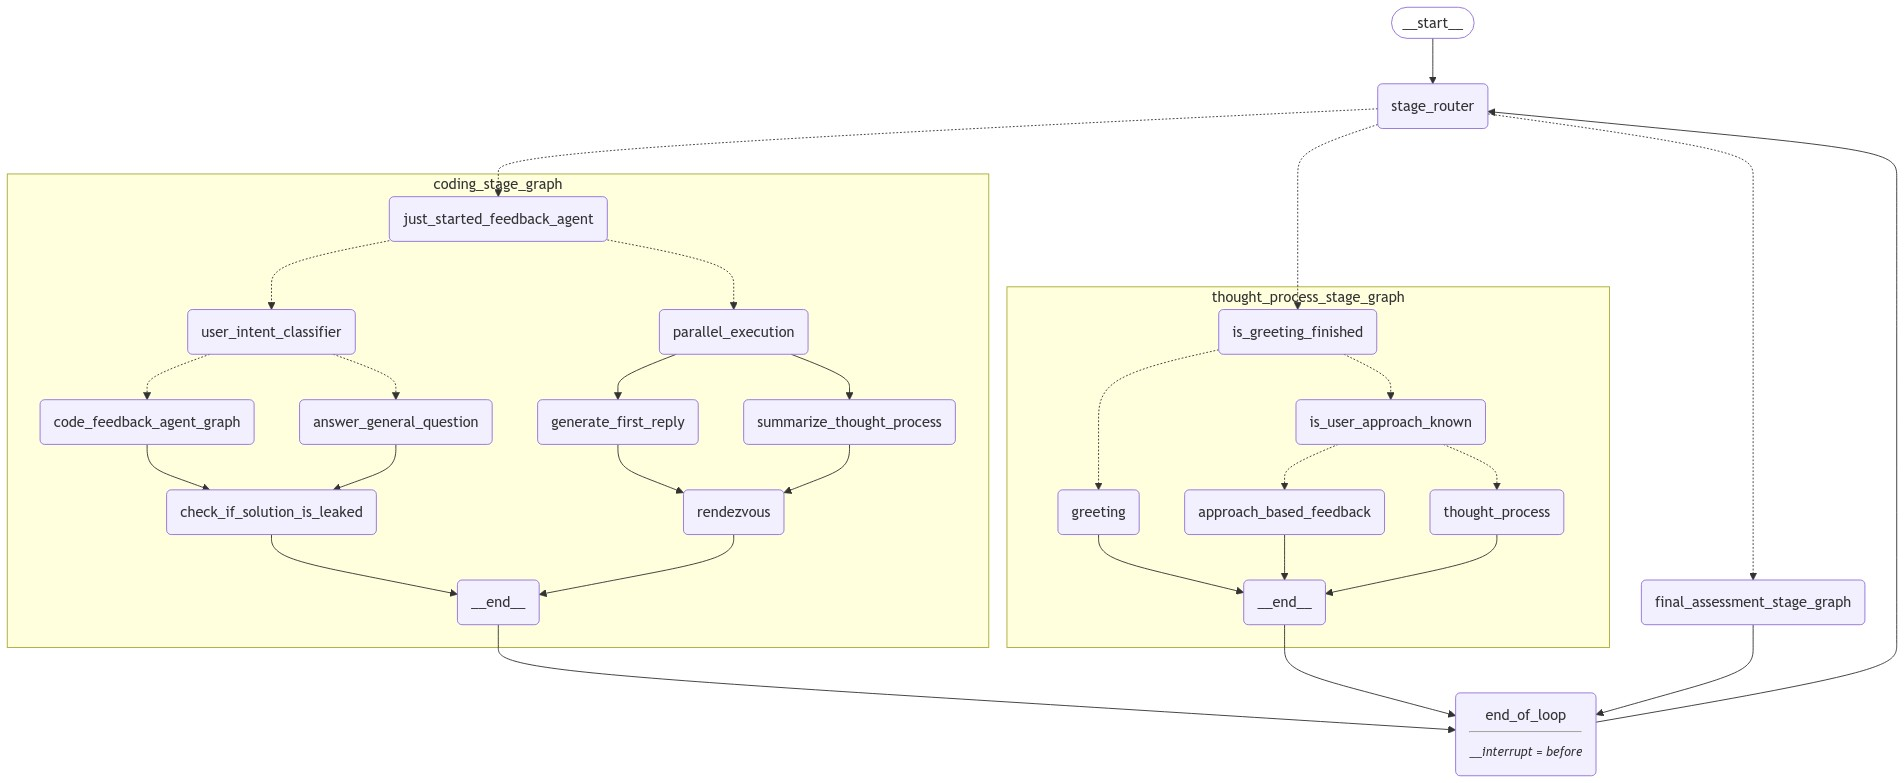
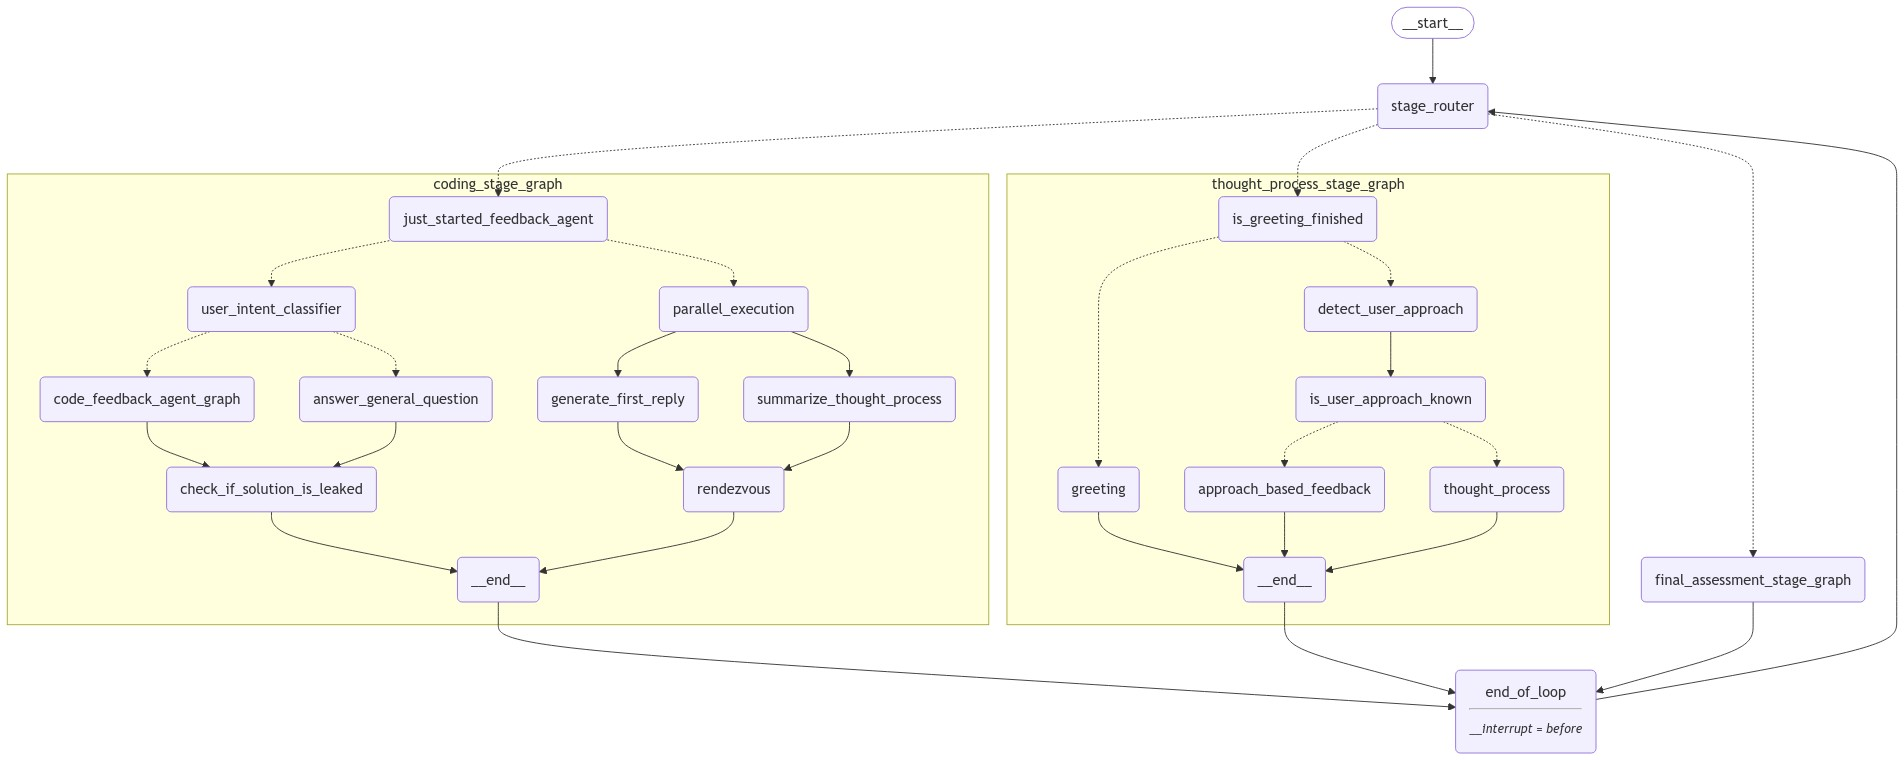
add detect_user_approach node with structured output

diff --git a/backend/agents/subgraphs/thought_process_stage/graph.py b/backend/agents/subgraphs/thought_process_stage/graph.py
@@ -1,5 +1,6 @@
 import json
 import os
+from enum import Enum
 from varname import nameof as n
 
 from langgraph.graph import START, END, StateGraph
@@ -41,6 +42,47 @@ def approach_based_feedback(state: OverallState):
         "messages": [AIMessage(content=response.content.strip("ai: "))],
     }
 
+def detect_user_approach(state: OverallState):
+    print("\n>>> NODE: detect_user_approach")
+
+    Approach = Enum(
+        "Approach",
+        {
+            "UNKNOWN": "UNKNOWN",
+            **{
+                approach["title"]: approach["title"]
+                for approach in state.interview_approaches
+            },
+        },
+    )
+
+    IdentifyUserApproachResponse = type(
+        "IdentifyUserApproachResponse",
+        (BaseModel,),
+        {
+            "__annotations__": {"approach": Approach},
+            "approach": Field()
+        }
+    )
+
+    approach_enum = (
+        ChatPromptTemplate.from_template(IDENTIFY_USER_APPROACH)
+        | chat_model.with_structured_output(IdentifyUserApproachResponse)
+    ).invoke(
+        {
+            "question": state.interview_question,
+            "approaches": state.interview_approaches,
+            "conversation": state.stringify_messages(),
+        }
+    ).approach
+
+    user_approach_dict = next((approach for approach in state.interview_approaches if approach['title'] == approach_enum.value), None)
+
+    if user_approach_dict is None:
+        raise ValueError(f"Approach {approach_enum.value} not found in {state.interview_approaches}")
+
+    return {"user_approach": json.dumps(user_approach_dict)}
+
 def thought_process(state: OverallState):
     print("\n>>> NODE: thought_process")
 
@@ -52,29 +94,10 @@ def thought_process(state: OverallState):
 
     reply = chain.invoke({})
 
-    approach_response = (
-        ChatPromptTemplate.from_template(IDENTIFY_USER_APPROACH) | chat_model
-    ).invoke(
-        {
-            "question": state.interview_question,
-            "approaches": state.interview_approaches,
-            "conversation": state.stringify_messages()
-        }
-    )
-
-    approach_used = approach_response.content.strip("`JjSsOoNn").strip().strip('"').strip()
-    if approach_used != "UNKNOWN":
-        print(f"\nNODE thought_process {approach_used}")
-        return {
-            "message_from_interviewer": reply,
-            "messages": [AIMessage(content=reply)],
-            "user_approach": approach_used
-        }
-    else:
-        return {
-            "message_from_interviewer": reply,
-            "messages": [AIMessage(content=reply)],
-        }
+    return {
+        "message_from_interviewer": reply,
+        "messages": [AIMessage(content=reply)],
+    }
 
 
 def is_greeting_finished(state: OverallState):
@@ -82,7 +105,7 @@ def is_greeting_finished(state: OverallState):
     if state.stage == "greeting":
         return n(greeting)
     else:
-        return n(is_user_approach_known)
+        return n(detect_user_approach)
 
 
 def greeting(state: OverallState):
@@ -177,8 +200,11 @@ g.add_node(n(is_greeting_finished), RunnablePassthrough())
 g.add_conditional_edges(
     n(is_greeting_finished),
     is_greeting_finished,
-    [n(greeting), n(is_user_approach_known)],
+    [n(greeting), n(detect_user_approach)],
 )
+
+g.add_node(detect_user_approach)
+g.add_edge(n(detect_user_approach), n(is_user_approach_known))
 
 g.add_node(n(is_user_approach_known), RunnablePassthrough())
 g.add_node(approach_based_feedback)

diff --git a/backend/agents/subgraphs/thought_process_stage/prompts.py b/backend/agents/subgraphs/thought_process_stage/prompts.py
@@ -24,21 +24,19 @@ Here is the interview question:
 
 IDENTIFY_USER_APPROACH = """You are a seasoned senior software engineer interviewing candiate software engineer. You want to first gauge which approach the user is taking to solve the given question. You are given the coding question as text, and all the approaches as JSON objects. Your task is to look at the conversation and identify which approach the user is taking.
 
-<question>
+<interview_question>
 {question}
-</question>
+</interview_question>
 
 <approaches>
 {approaches}
 </approaches>
 
-Here is a brief conversation between you and the user
+Here is a brief conversation between you and the candidate
 
 <conversation>
 {conversation}
 </conversation>
-
-Use the above conversation and output the approach which best matches the user's ideas. Output the selected JSON approach object. If the approach is not clear or none of the approaches matches the user's thought, output "UNKNOWN".
 """
 
 
